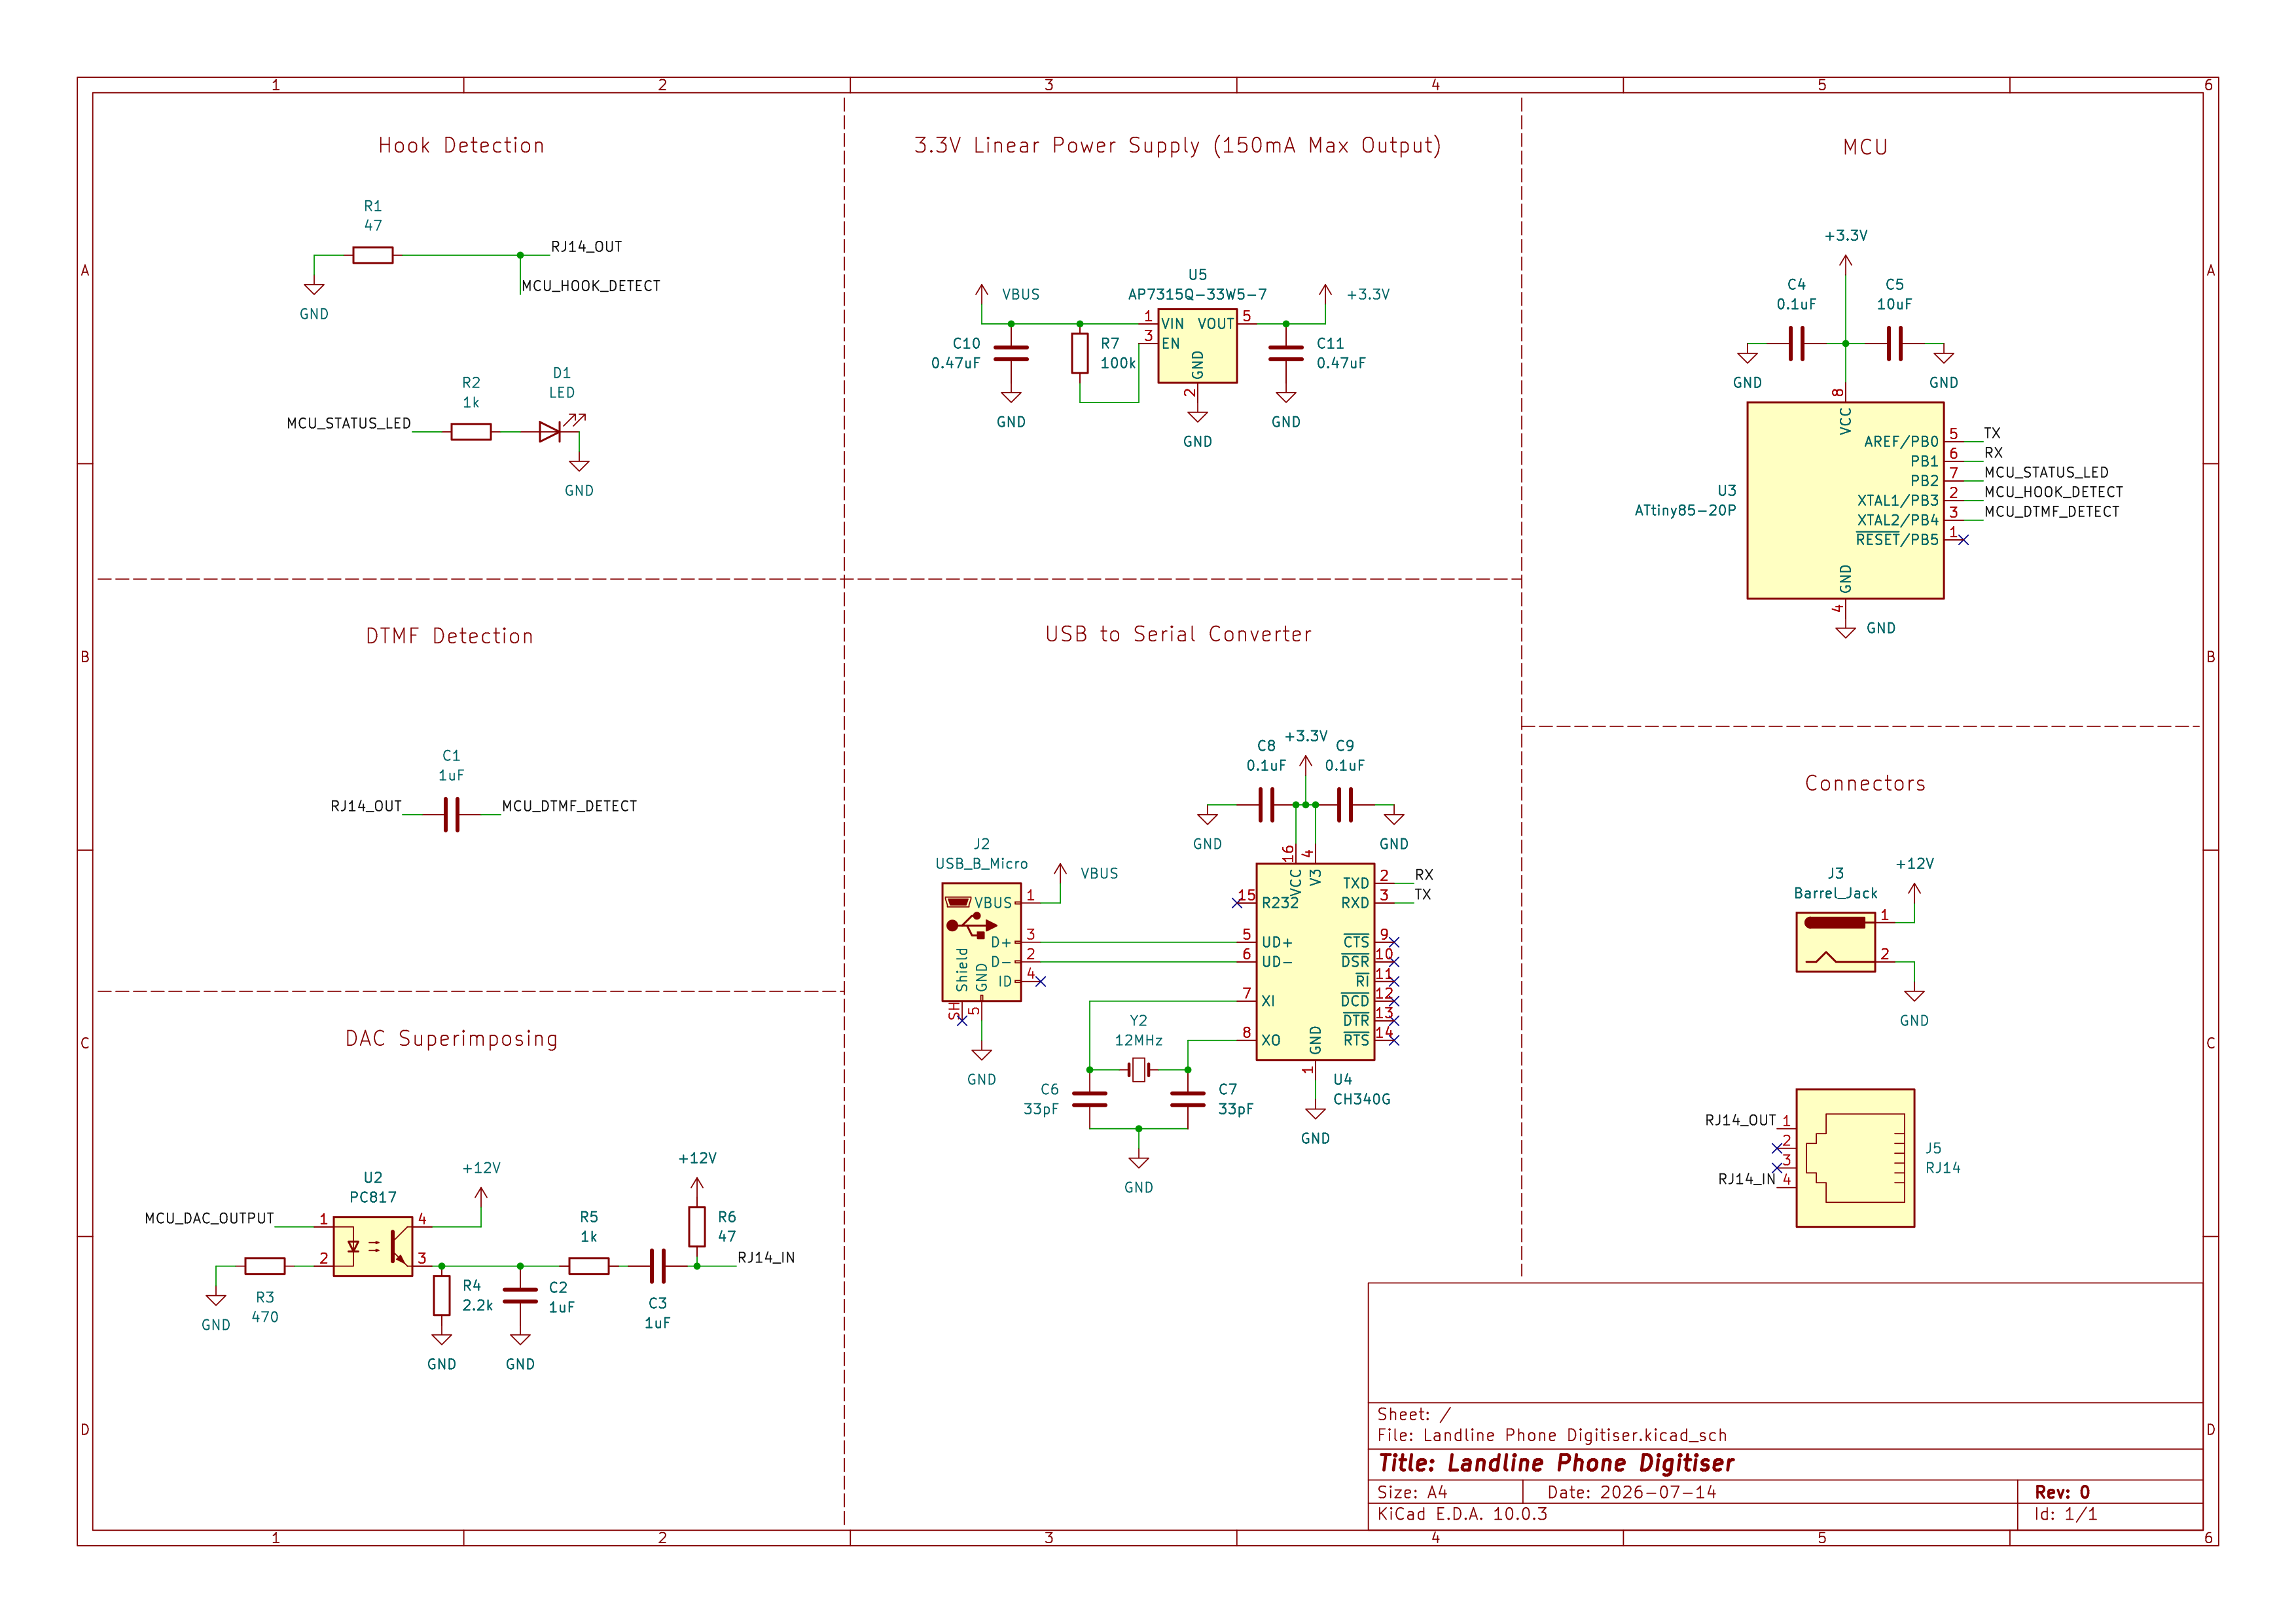
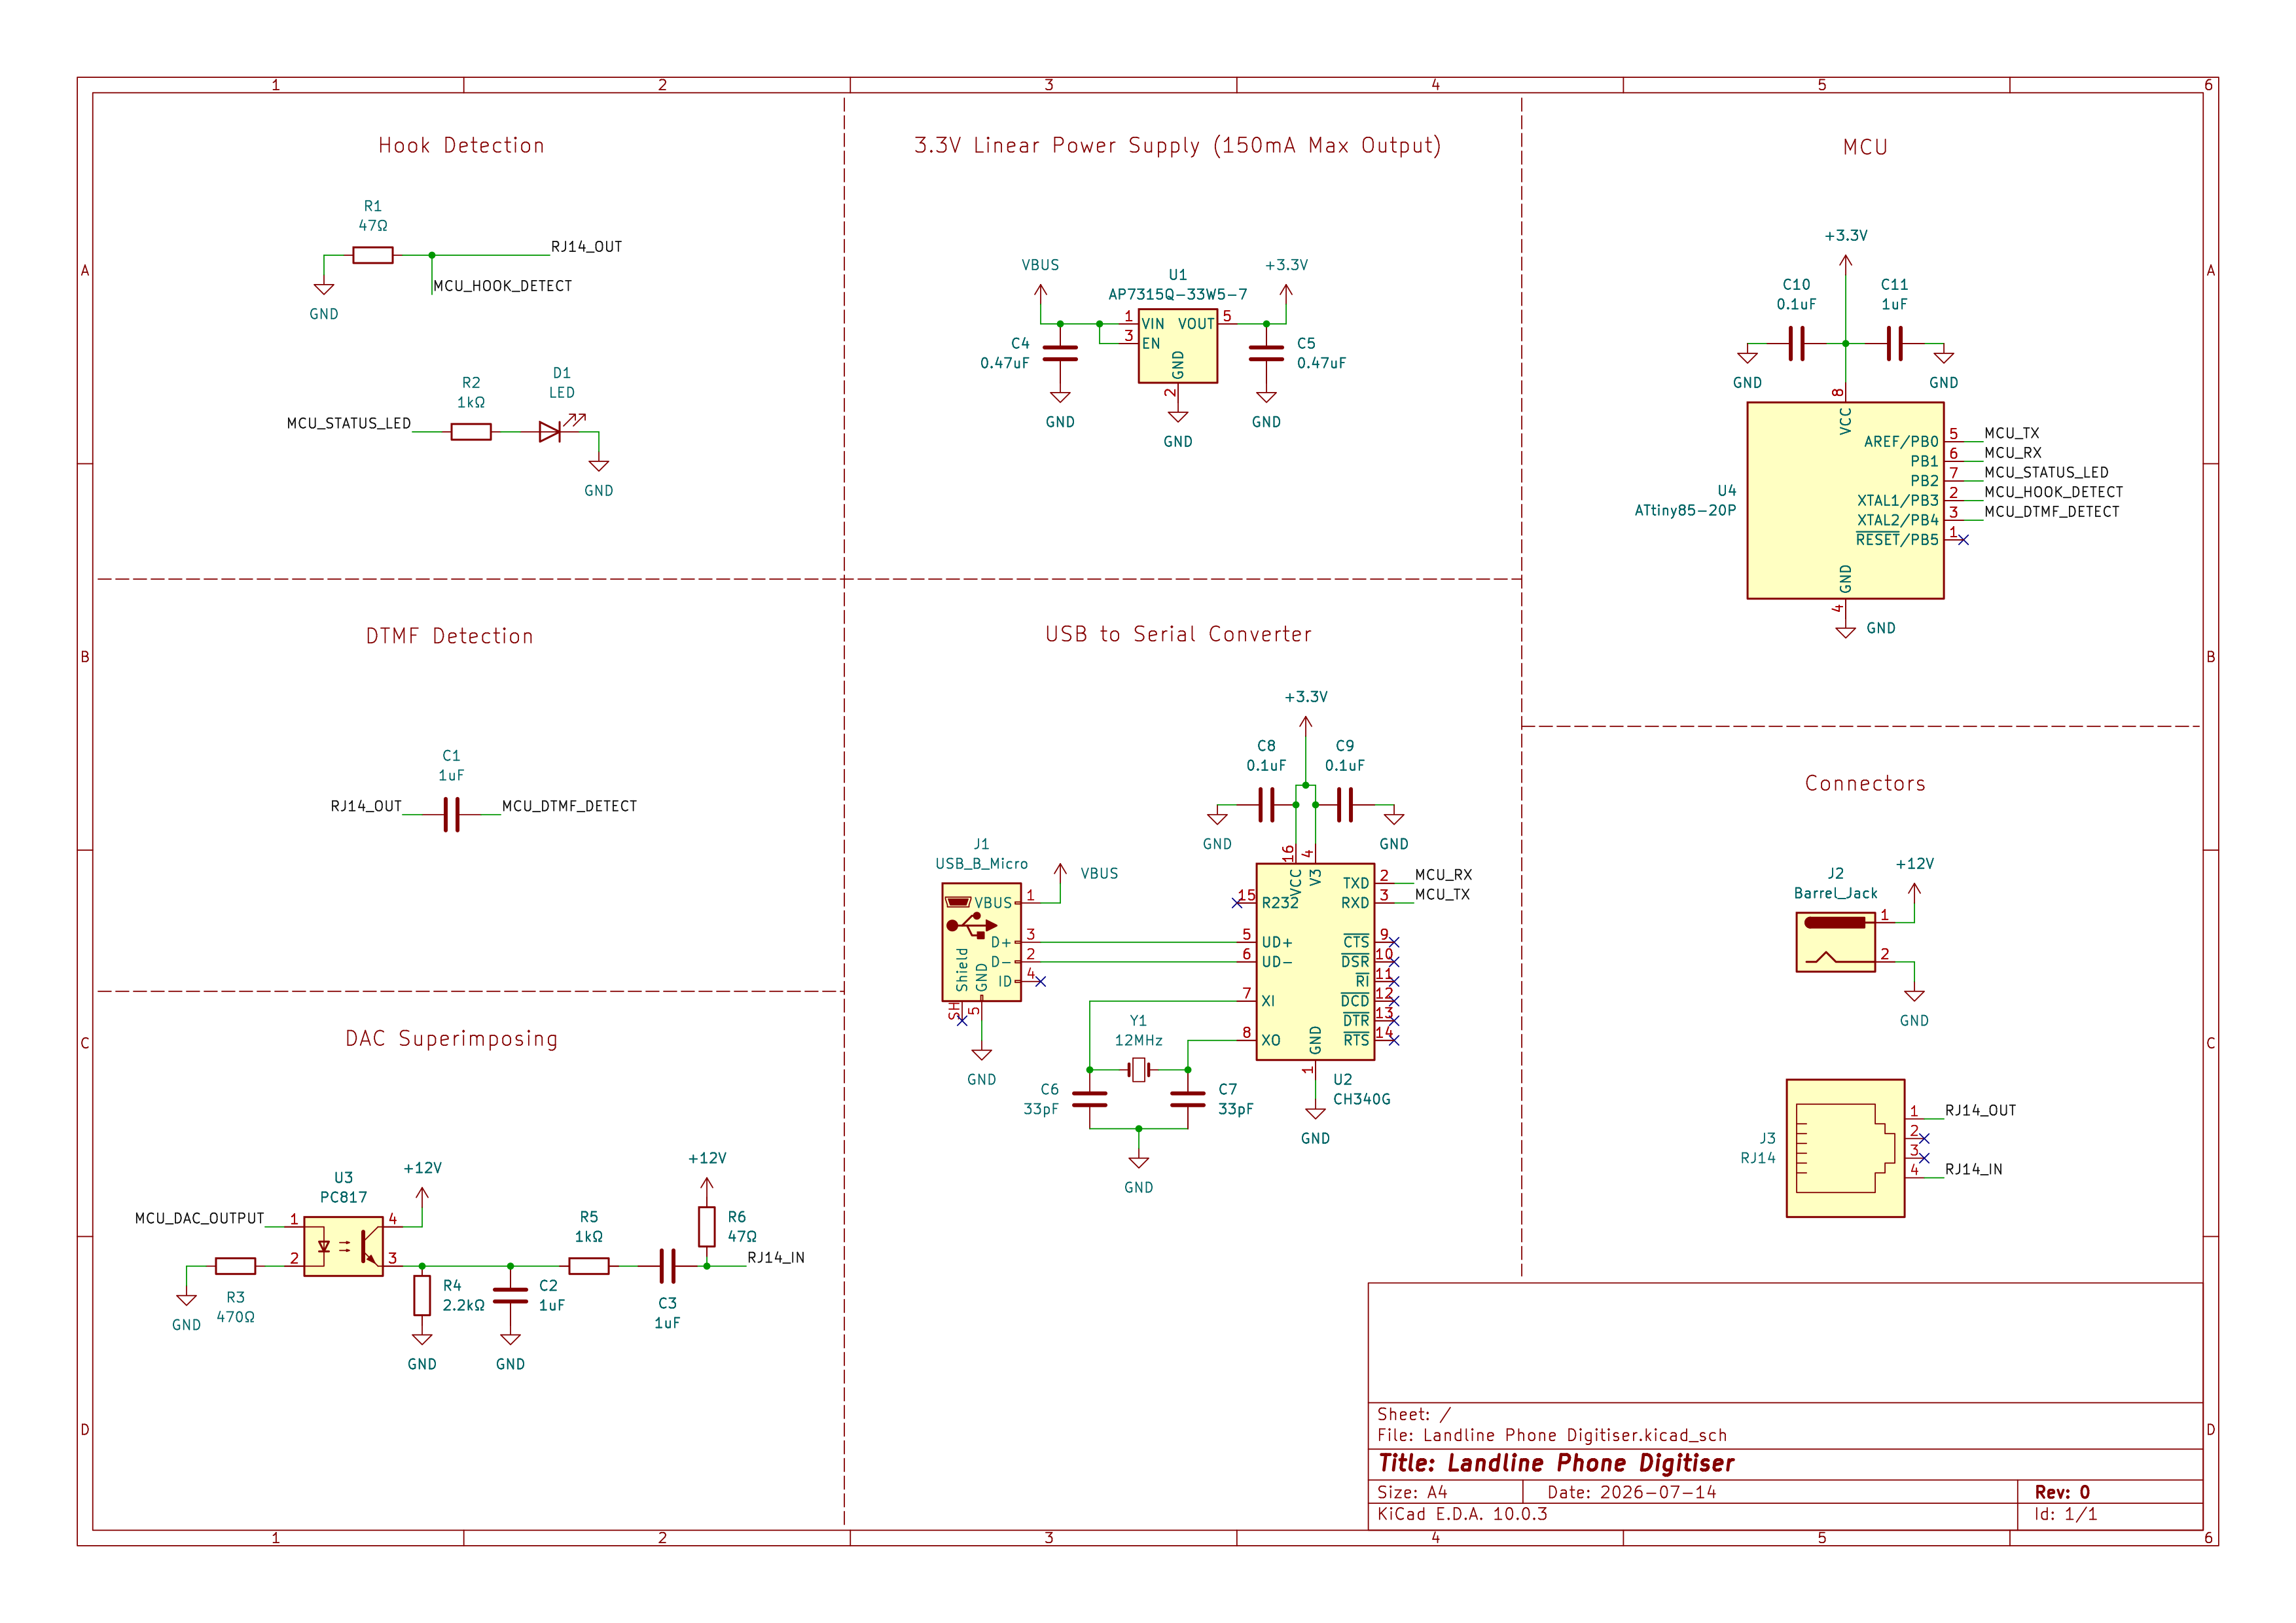
updated v2 schematic

diff --git a/README.md b/README.md
@@ -281,10 +281,11 @@ Testing of the optocoupler circuit showed it working perfectly. PWM signals from
 ### Conclusion <a name="conclusion2"/>
 With the Pico code and a Python script, phone numbers and IVR systems can be created that allow the Vanguard to do many things. Such things involve opening websites, opening programs, sending emails, sending messages etc etc
 
-Schematic  
+Schematic using an Attiny85  
 ![Telephone Exchange Schematic](https://github.com/michael-gif/Landline-Phone-Digitiser/blob/main/Resources/Schematics/telephone_exchange_schematic_v2.png)
 
-Breadboard implementation  
+Breadboard implementation using a Pico  
+(The Pico is easier because it does the MCU, Linear Power Supply and USB-Serial stuff all in one)  
 ![Breadboard Circuit](https://github.com/michael-gif/Landline-Phone-Digitiser/blob/main/Resources/breadboard_circuit_v2.jpg)
 
 # TODO